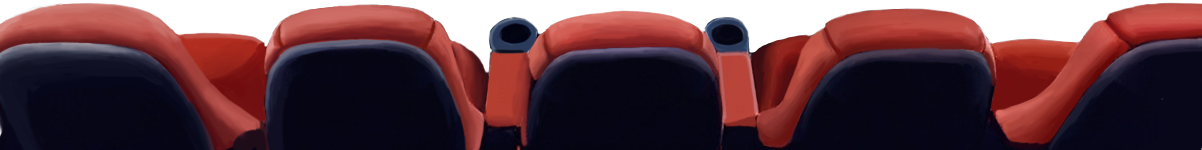
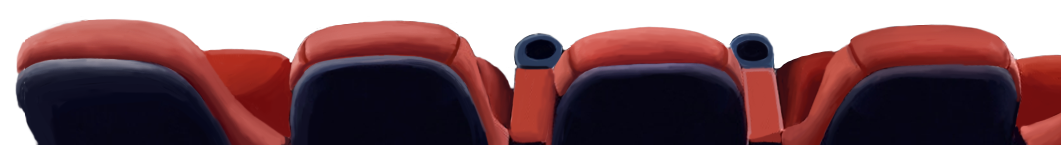
modify cienma

diff --git a/bak/js/scene/confusion_cinemascene.js b/bak/js/scene/confusion_cinemascene.js
@@ -14,9 +14,11 @@
 		currentOnhandObj:null,
 		currentOnhandImg:null,
 		
-		boxclose:null,
-		boxopen:null,
-		boxempty:null,
+		speakerinbox:null,
+		glass:null,
+		breakglass:null,
+		glassonfloor:null,
+		
 		
 		public1:null,
 		public2:null,
@@ -120,13 +122,12 @@
 							duration:10,
 							delay:200,
 							onComplete:function(){
-								scene.hero.switchState('backpick',10);
+								//scene.hero.switchState('backpick',10);
 								new Hilo.Tween.to(scene.hero,{
 									posx:initx,
 									posy:inity,
 									scaleX:1,
 									scaleY:1,
-									
 								},{
 									duration:120,
 									delay:320,
@@ -151,7 +152,7 @@
 				if(!this.currentOnhandObj){
 					this.hammer.scaleFact = 1;
 					this.currentOnhandObj = this.hammer;	
-					this.pickPropQuick('hammer','img/confusion/hammeronhand.png',this.hammer,-62,-145);
+					this.pickPropQuick('hammer','img/confusion/extinguisherhand.png',this.hammer,-62+18,-145+34);
 				}
 				return true;
 			}
@@ -182,11 +183,9 @@
 			
 			
 			if(this.checkActiveItemWithoutPos(mouseX,mouseY,this.speakerobj)){
-				this.speakerobj.scaleFact = 1;
+				this.speakerobj.scaleFact = 0.8;
 				var scene = this;
 				this.pickPropQuick('speak','empty',this.speakerobj,-80,-103,function(){
-					scene.boxempty.visible = true;
-					scene.boxopen.visible = false;
 					scene.putProp();
 					scene.handonProp('img/confusion/speakeronhand.png',544,214);
 					game.drdialog.showTxt('img/confusion/notecheli.png');
@@ -195,7 +194,10 @@
 						scene.knockman.visible = true;
 						scene.knockman.x = 529;
 						scene.knockman.y = 66;
+						scene.knockman.scaleX = 1;
+						scene.knockman.scaleY = 1;
 						scene.hero.visible = false;
+						scene.speakerinbox.visible = false;
 						scene.currentOnhandImg.removeFromParent();
 						scene.callpublic();
 					});
@@ -208,12 +210,17 @@
 				if(this.currentOnhandObj && this.currentOnhandObj.name == 'hammer'){
 					var scene = this;
 					this.gotoOpenswitch(this.boxobj,0,0,function(){
-						scene.boxclose.visible = false;
-						scene.boxopen.visible = true;
 						scene.hammer.visible = true;
-						scene.hammer.x = 1127-50;
-						scene.hammer.y = 315;
+						scene.hammer.x = 279;
+						scene.hammer.y = 247;
+						scene.hammer.scaleX = 0.8;
+						scene.hammer.scaleY = 0.8;
+						scene.hero.scaleX = 1;
+						scene.hero.scaleY = 1;
 						scene.speakerobj.status = 1;
+						scene.glass.visible = false;
+						scene.glassonfloor.visible = true;
+						scene.breakglass.visible = true;
 					});
 					this.boxobj.status = 2;
 				}else{
@@ -279,7 +286,34 @@
 			var scene = this;
 			
 			new Hilo.Bitmap({
-				image:'img/confusion/cinemabg.png',
+				image:'img/confusion/dy.png',
+			}).addTo(this);
+			
+			this.speakerinbox = new Hilo.Bitmap({
+				image:'img/confusion/speakinbox.png',
+				x:182,
+				y:122
+			}).addTo(this);
+			
+			this.glass = new Hilo.Bitmap({
+				image:'img/confusion/glass01.png',
+				x:178,
+				y:104,
+				alpha:0.8
+			}).addTo(this);
+			
+			this.breakglass = new Hilo.Bitmap({
+				image:'img/confusion/glassbreak.png',
+				x:178,
+				y:104,
+				visible:false,
+			}).addTo(this);
+			
+			this.glassonfloor = new Hilo.Bitmap({
+				image:'img/confusion/glassonfloor.png',
+				x:192,
+				y:296,
+				visible:false
 			}).addTo(this);
 			
 			this.helpatlas = new Hilo.TextureAtlas({
@@ -292,6 +326,9 @@
                 	up:[0,1,2,3,4]
                 }
             });
+            
+			this.hammer  = this.createActiveObj('hammer',1093,176,0,140,'img/confusion/extinguisher.png','',[10,0,30,130],1);
+            
             
             this.help1 = new Hilo.Sprite({
 				frames:this.helpatlas.getSprite('idle'),
@@ -309,13 +346,8 @@
 				visible:false
 			}).addTo(this);
 			
-			this.boxclose = new Hilo.Bitmap({image:'img/confusion/boxclose.png',x:907,y:140}).addTo(this);
-			this.boxopen = new Hilo.Bitmap({image:'img/confusion/boxopen.png',x:907,y:140,visible:false}).addTo(this);
-			this.boxempty = new Hilo.Bitmap({image:'img/confusion/boxempty.png',x:907,y:140,visible:false}).addTo(this);
 			
 
-			new Hilo.Bitmap({image:'img/confusion/chair2.png',x:167,y:360}).addTo(this);
-			new Hilo.Bitmap({image:'img/confusion/chair1.png',x:0,y:536}).addTo(this);
 			
 			this.public1 = new Hilo.Bitmap({image:'img/confusion/public.png',x:0,y:360}).addTo(this);
 			this.public2 = new Hilo.Bitmap({image:'img/confusion/public.png',x:700,y:360}).addTo(this);
@@ -334,21 +366,21 @@
 			
 			this.atlas = new Hilo.TextureAtlas({
                 image:'img/confusion/boyactions_cinema.png',
-                width: 1060,
-                height: 1248,
-                frames:[[424, 0, 210, 310], [636, 936, 210, 310], [636, 624, 210, 310], [636, 312, 210, 310], [636, 0, 210, 310], [636, 312, 210, 310], [636, 624, 210, 310], [424, 0, 210, 310], [424, 936, 210, 310], [424, 624, 210, 310], [424, 312, 210, 310], [848, 0, 210, 310], [212, 936, 210, 310], [424, 936, 210, 310], [212, 624, 210, 310], [212, 312, 210, 310], [212, 0, 210, 310], [0, 936, 210, 310], [0, 624, 210, 310], [0, 312, 210, 310], [0, 0, 210, 310]],
+                width: 848,
+                height: 936,
+                frames:[[212, 624, 210, 310], [212, 624, 210, 310], [636, 312, 210, 310], [636, 0, 210, 310], [636, 0, 210, 310], [424, 624, 210, 310], [424, 312, 210, 310], [424, 0, 210, 310], [636, 624, 210, 310], [212, 312, 210, 310], [212, 0, 210, 310], [424, 312, 210, 310], [0, 624, 210, 310], [0, 312, 210, 310], [0, 0, 210, 310]],
                 sprites: {
                 	idle:[0,0],
                 	openswitch:[0,1,2,3,4],
-                	knockandopen:[14,15,16,17,0,1,2,3,4,5,6,7],
-                	speak:[18,19,20],
-                	help:[8,9,10,11,12,13]
+                	knockandopen:[0,1,2,3,4,5],
+                	speak:[12,13,14],
+                	help:[6,7,8,9,10,11]
                 }
             });
             
             
             
-            new Hilo.Bitmap({image:'img/confusion/chair2.png',x:167,y:360}).addTo(this);
+            new Hilo.Bitmap({image:'img/confusion/chair2.png',x:376,y:467}).addTo(this);
             new Hilo.Sprite({
 				frames:this.effectatlas.getSprite('smoke'),
 				interval:10,
@@ -357,7 +389,7 @@
 				scaleX:3,
 				scaleY:3,
 			}).addTo(this);
-			new Hilo.Bitmap({image:'img/confusion/chair1.png',x:0,y:536}).addTo(this);
+			new Hilo.Bitmap({image:'img/confusion/chair1.png',x:172,y:552}).addTo(this);
 			
             
             this.knockman = new Hilo.Sprite({
@@ -368,11 +400,11 @@
 				visible:false,
 			}).addTo(this);
 			
-			this.hammer  = this.createActiveObj('hammer',253,300,0,30,'img/confusion/hammer.png','',[0,0,80,30],1);
-			this.boxobj  = this.createActiveObj('box',1002,220,0,130,'empty','empty',[0,0,40,40],1);
-			this.helpobj1  = this.createActiveObj('help1',360,120,190,160,'empty','empty',[0,0,70,140],1);
-			this.helpobj2 = this.createActiveObj('help2',456,210,190,160,'empty','empty',[0,0,70,140],1);
-			this.speakerobj  = this.createActiveObj('speakerobj',1002,220,0,130,'empty','empty',[0,-30,60,90],2);
+
+			this.boxobj  = this.createActiveObj('box',180,110,50,180,'empty','empty',[0,0,40,40],1);
+			this.helpobj1  = this.createActiveObj('help1',360,120,160,210,'empty','empty',[0,0,70,140],1);
+			this.helpobj2 = this.createActiveObj('help2',456,210,160,160,'empty','empty',[0,0,70,140],1);
+			this.speakerobj  = this.createActiveObj('speakerobj',180,110,0,130,'empty','empty',[0,-30,60,90],2);
 			
 			
 			
@@ -446,18 +478,21 @@
 			new Hilo.Tween.to(scene.hero, {
 					posx:targetx,
 					posy:targety,
-					scaleX:1,
-					scaleY:1,
+					scaleX:0.8,
+					scaleY:0.8,
 				}, {
 					duration: 120,
 					onComplete: function() {
 						scene.hero.visible = false;
 						scene.knockman.visible = true;
 						scene.knockman.loop = false;
-						scene.knockman.x = scene.hero.x -113;
-						scene.knockman.y = scene.hero.y-285;
+						scene.knockman.x = scene.hero.x -153;
+						scene.knockman.y = scene.hero.y-245;
 						scene.knockman.currentFrame = 0;
+						scene.knockman.scaleX = 0.8;
+						scene.knockman.scaleY = 0.8;
 						scene.knockman._frames = scene.atlas.getSprite('knockandopen');
+						game.sounds.play(10,false);
 					}
 				}).link(
 					new Hilo.Tween.to(scene.hero,{

diff --git a/bak/js/data/monsterdata.js b/bak/js/data/monsterdata.js
@@ -170,7 +170,7 @@ game.monsterdata = new function(){
 			[-1,'pass03',game.configdata.SCENE_NAMES.confusion_doorway],
 			[0,'typhoon',game.configdata.SCENE_NAMES.typhoon_cave],
 			//[0,'pass01',game.configdata.SCENE_NAMES.typhoon_out],
-			[0,'confusion',game.configdata.SCENE_NAMES.confusion_switchbox],
+			[0,'confusion',game.configdata.SCENE_NAMES.confusion_cinema],
 			
 			[0,'plane',game.configdata.SCENE_NAMES.plane_board],
 			

diff --git a/bak/js/data/configdata.js b/bak/js/data/configdata.js
@@ -5,7 +5,7 @@ game.configdata = new function(){
 	var self = this;
 	// 配置信息    只读属性
 	self.CANVASID = 'CANVAS_ID';
-	self.NOLINE = true;
+	self.NOLINE = false;
 	self.BGCOLOR ='#000000';
 	self.FPS = 60;
 	self.RESOURCE_BASEDIR = 'img';
